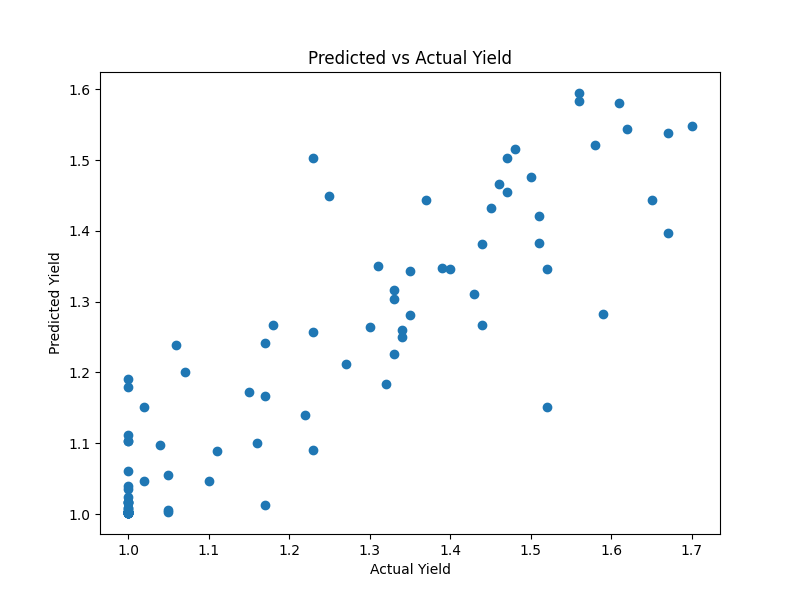
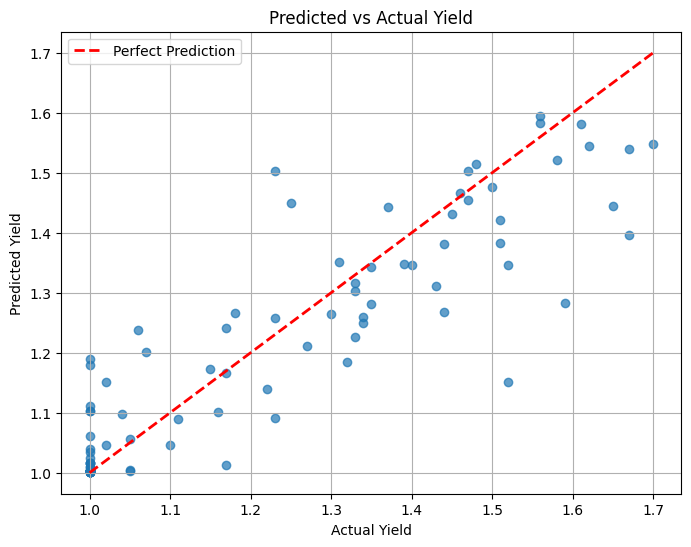
Fix model comparison markdown - clean tables and updated analysis

diff --git a/src/predicted_vs_actual.py b/src/predicted_vs_actual.py
@@ -2,12 +2,15 @@ import pandas as pd
 import joblib
 import matplotlib.pyplot as plt
 
+# Load test data
 test_df = pd.read_csv("data/processed/test.csv")
 
+# Create interaction feature
 test_df["temp_humidity_interaction"] = (
     test_df["temperature"] * test_df["humidity"]
 )
 
+# Features used during training
 features = [
     "temperature",
     "humidity",
@@ -15,23 +18,51 @@ features = [
     "temp_humidity_interaction"
 ]
 
+# Split into X and y
 X_test = test_df[features]
 y_test = test_df["yield"]
 
+# Load tuned Random Forest model
 model = joblib.load(
     "models/random_forest_tuned.pkl"
 )
 
+# Make predictions
 predictions = model.predict(X_test)
 
-plt.figure(figsize=(8,6))
-plt.scatter(y_test, predictions)
+# Check sample counts
+print("Test samples:", len(y_test))
+print("Predictions:", len(predictions))
+
+# Predicted vs Actual plot
+plt.figure(figsize=(8, 6))
+
+plt.scatter(
+    y_test,
+    predictions,
+    alpha=0.7
+)
+
+# Perfect prediction reference line
+plt.plot(
+    [y_test.min(), y_test.max()],
+    [y_test.min(), y_test.max()],
+    'r--',
+    linewidth=2,
+    label="Perfect Prediction"
+)
 
 plt.xlabel("Actual Yield")
 plt.ylabel("Predicted Yield")
 plt.title("Predicted vs Actual Yield")
+plt.legend()
+plt.grid(True)
 
+# Save plot
 plt.savefig(
-    "reports/predicted_vs_actual.png"
+    "reports/predicted_vs_actual.png",
+    bbox_inches="tight"
 )
+
+
 